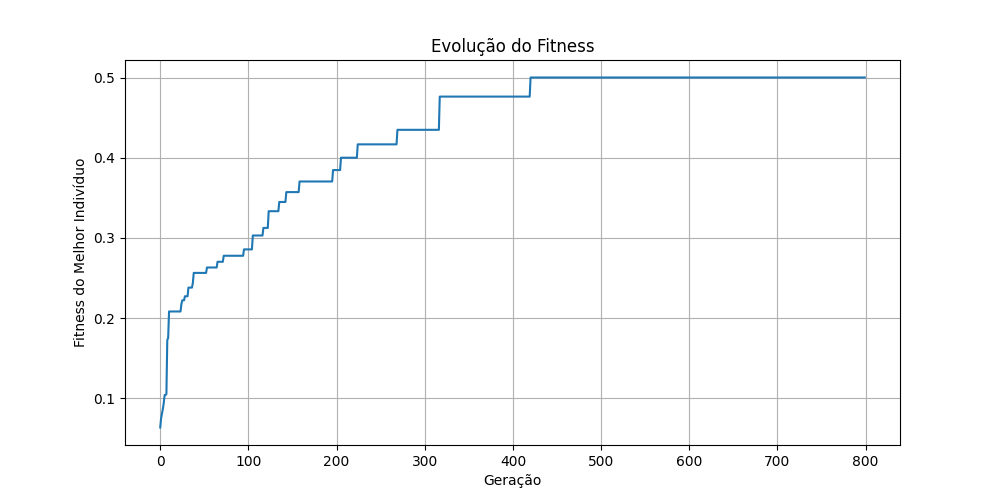
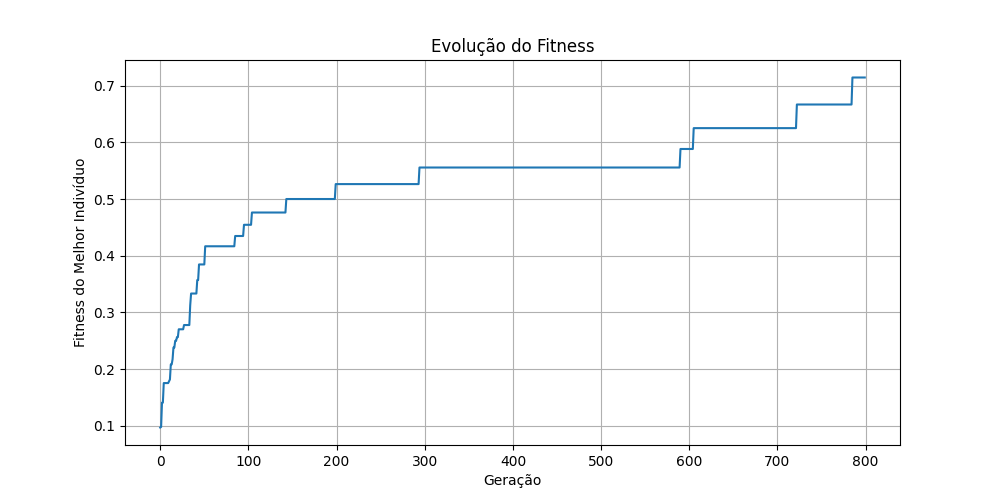
Consertando horários e modificando os dados de professores

diff --git a/solver.py b/solver.py
@@ -12,7 +12,7 @@ def mutacao(individuo, taxa_mutacao):
             if aula.professor and aula.professor.disponibilidade:
                 novo_ind[i] = random.choice(aula.professor.disponibilidade)
             else:
-                novo_ind[i] = random.randint(0, 39)
+                novo_ind[i] = random.randint(0, 49)
     return novo_ind
 
 def main():
@@ -37,11 +37,13 @@ def main():
         "07:30 - 08:20",
         "08:20 - 09:10",
         "09:10 - 10:00",
-        "11:00 - 11:50",
+        "10:20 - 11:10",
+        "11:10 - 12:00",
         "13:00 - 13:50",
         "13:50 - 14:40",
         "14:40 - 15:30",
-        "16:00 - 16:50"
+        "15:50 - 16:40",
+        "16:40 - 17:30"
     ]
 
     relatorio_linhas = []
@@ -57,13 +59,13 @@ def main():
 
     for p in range(1, 5):
         registrar(f"--- GRADE HORÁRIA - PERÍODO {p} ---")
-        grade = [["---" for _ in range(5)] for _ in range(8)]
+        grade = [["---" for _ in range(5)] for _ in range(10)]
         
         for idx, horario in enumerate(melhor_ind):
             aula = aulas[idx]
             if aula.disciplina.periodo == p:
-                dia_idx = horario // 8
-                horario_idx = horario % 8
+                dia_idx = horario // 10
+                horario_idx = horario % 10
                 prof_nome = aula.professor.nome.split()[0] if aula.professor else "SemProf"
                 val = f"{aula.disciplina.codigo}({prof_nome})"
                 if grade[horario_idx][dia_idx] == "---":

diff --git a/fitness.py b/fitness.py
@@ -68,7 +68,7 @@ def calcular_fitness(cromossomo):
                     penalidades += len(intersection) * PESO_HARD
 
     for horario in cromossomo:
-        if (horario % 8) >= 4:
+        if (horario % 10) >= 5:
             penalidades += PESO_SOFT
 
     prof_day_horarios = {}
@@ -76,8 +76,8 @@ def calcular_fitness(cromossomo):
         aula = aulas[idx]
         prof = aula.professor
         if prof:
-            day = horario // 8
-            turn = 0 if (horario % 8 < 4) else 1
+            day = horario // 10
+            turn = 0 if (horario % 10 < 5) else 1
             key = (prof.nome, day, turn)
             if key not in prof_day_horarios:
                 prof_day_horarios[key] = set()
@@ -95,9 +95,10 @@ def calcular_fitness(cromossomo):
     for idx, horario in enumerate(cromossomo):
         aula = aulas[idx]
         periodo = aula.disciplina.periodo
-        day = horario // 8
+        day = horario // 10
         key = (periodo, day)
         period_day_counts[key] = period_day_counts.get(key, 0) + 1
+
 
     for p in range(1, 5):
         for day in range(5):

diff --git a/dados.py b/dados.py
@@ -65,5 +65,6 @@ def inicializar_individuo():
         if aula.professor and aula.professor.disponibilidade:
             ind.append(random.choice(aula.professor.disponibilidade))
         else:
-            ind.append(random.randint(0, 39))
+            ind.append(random.randint(0, 49))
     return ind
+